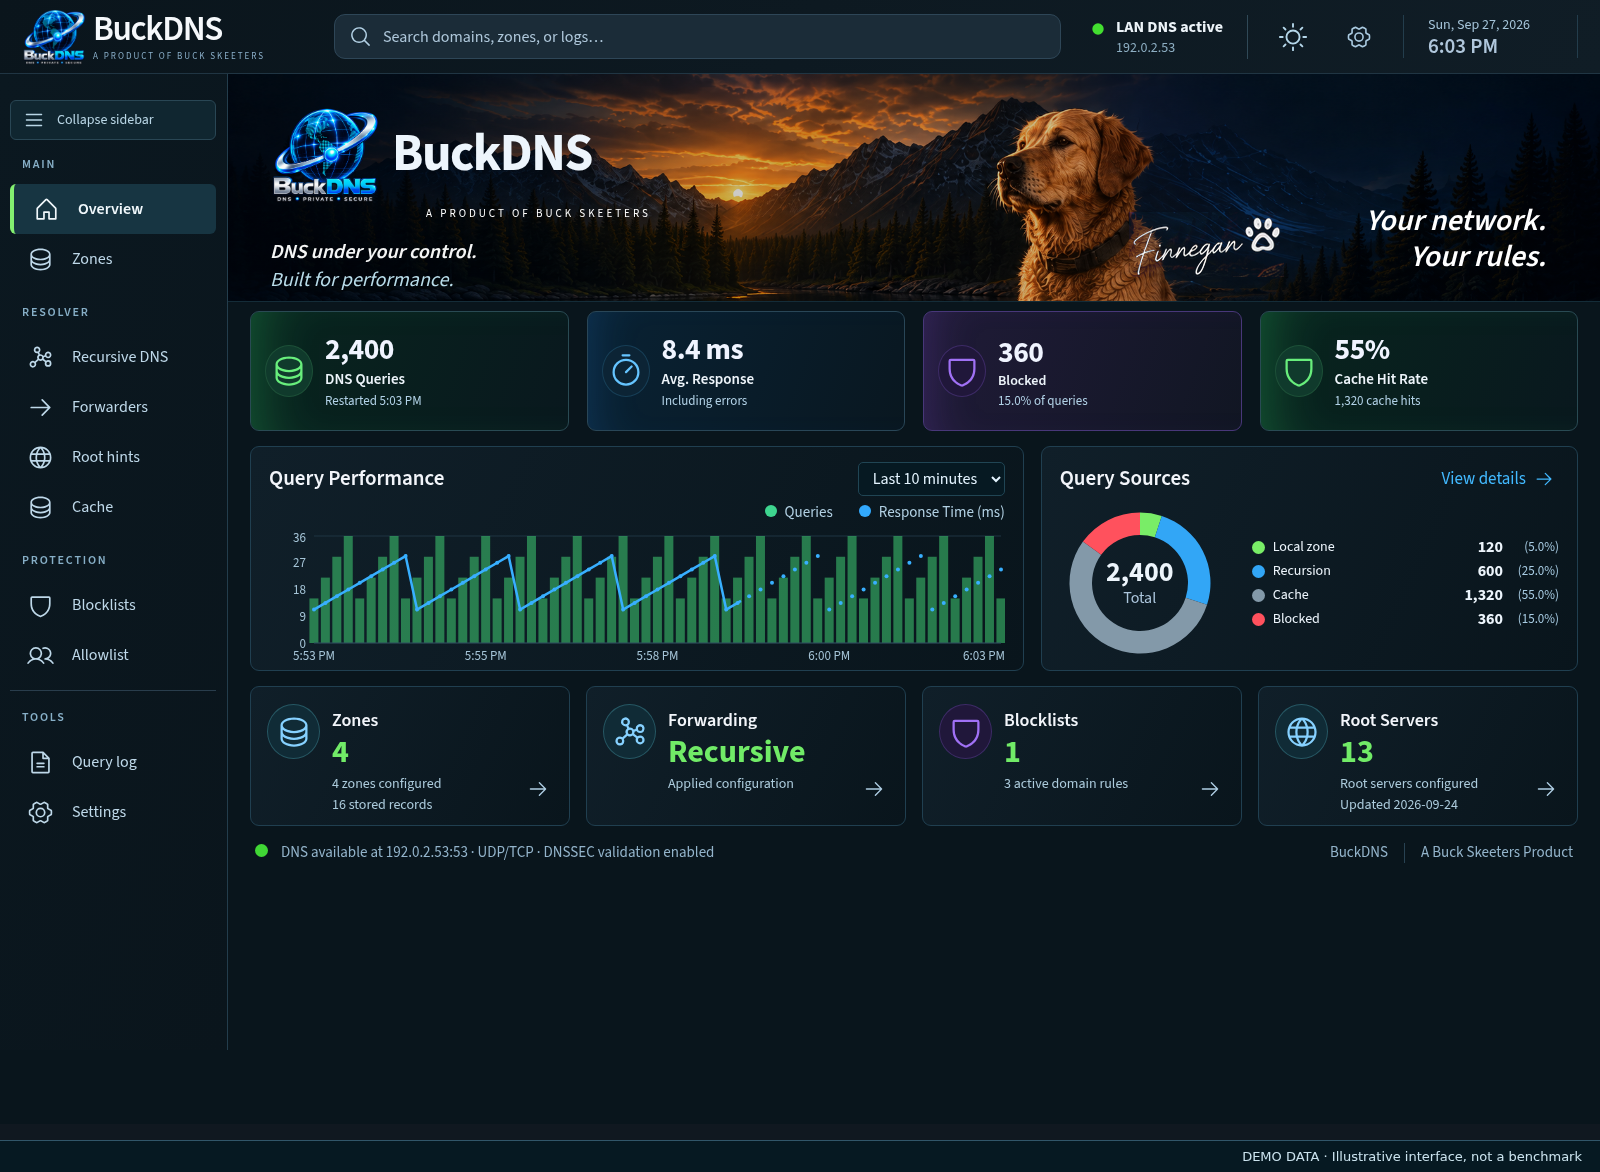
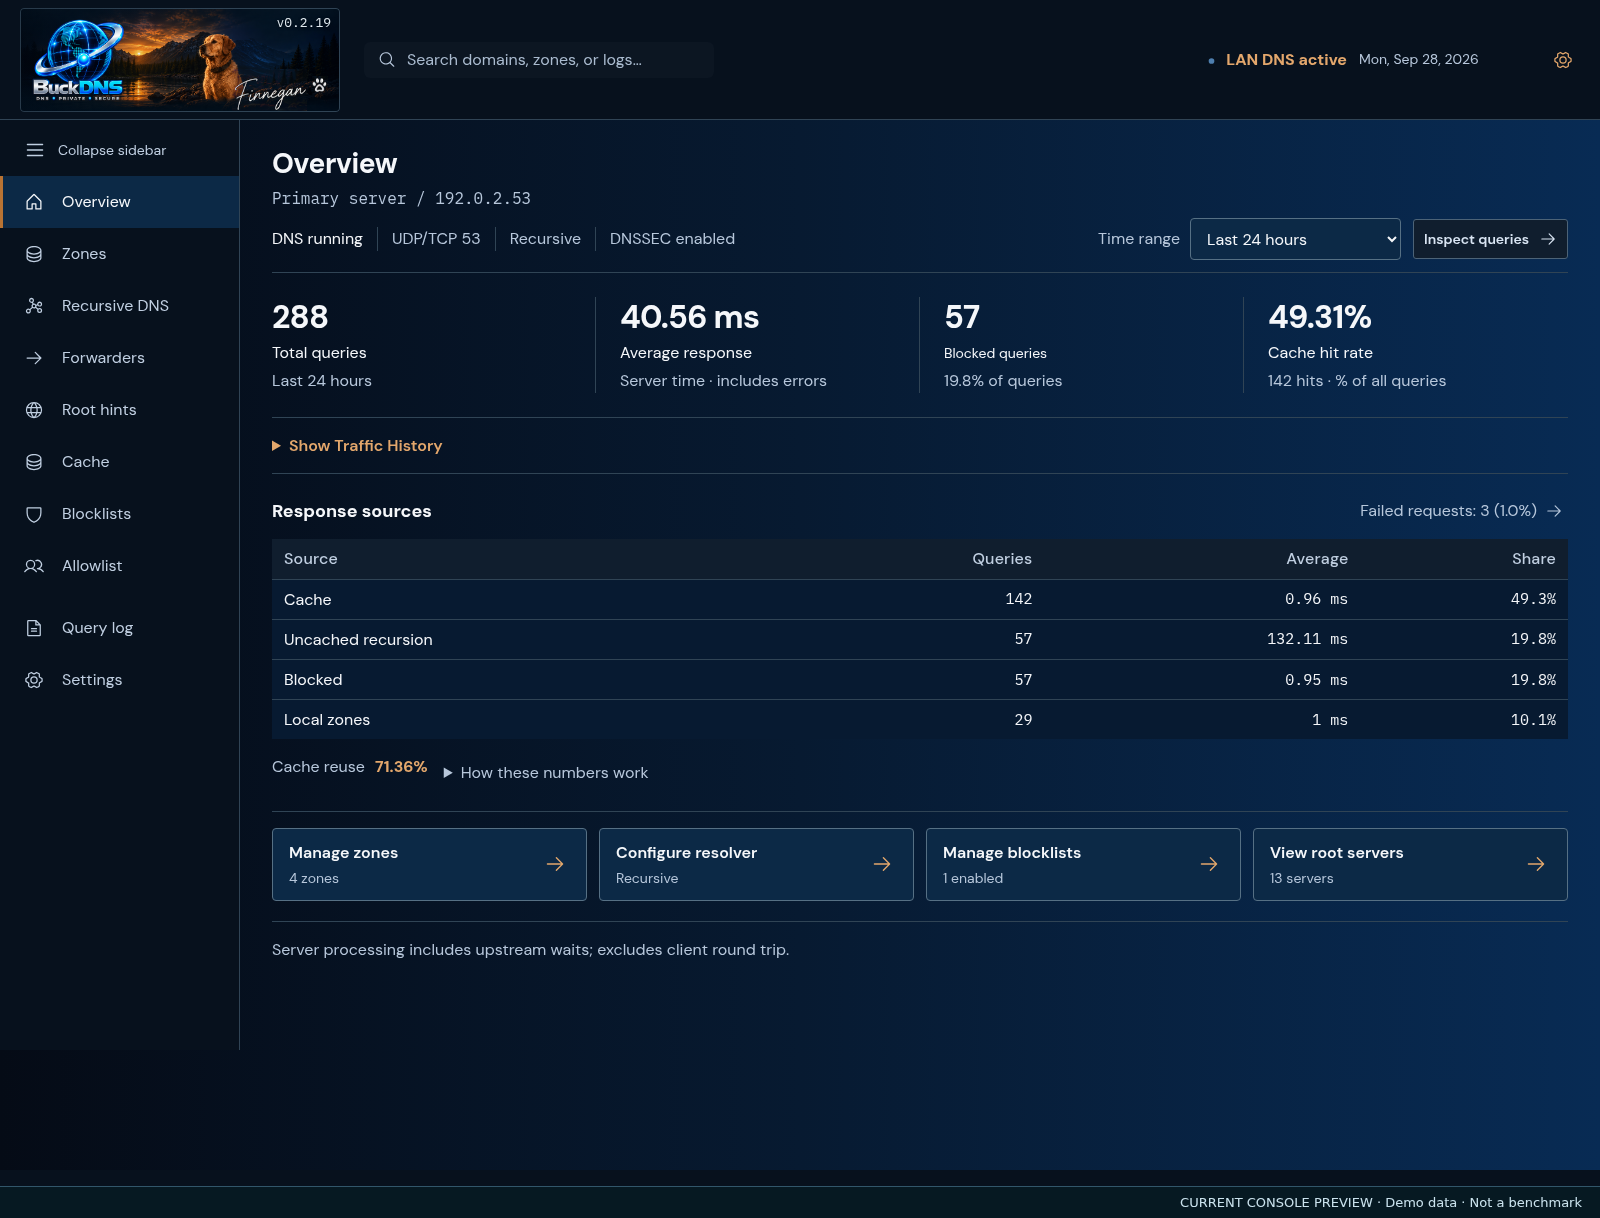
Add files via upload

diff --git a/README.md b/README.md
@@ -22,9 +22,39 @@ A fully recursive DNS server with network-wide ad and tracker blocking, local zo
 
 ## See BuckDNS
 
-![BuckDNS dashboard with illustrative demo data](assets/dashboard.png)
+Screenshots from the [BuckDNS website gallery](https://buckskeeters.com/apps/buckdns/#screenshots), using illustrative demonstration data.
 
-Screenshots contain illustrative demo data, not performance benchmarks. The [website carousel](https://buckskeeters.com/apps/buckdns/#screenshots) previews the latest interface; some screens include changes coming in the next packaged release.
+### Dashboard
+
+![BuckDNS dashboard screen with illustrative demo data](assets/dashboard.png)
+
+### Ad blocking
+
+![BuckDNS ad blocking screen with illustrative demo data](assets/02-ad-blocking.png)
+
+### Cache controls
+
+![BuckDNS cache controls screen with illustrative demo data](assets/03-cache-controls.png)
+
+### Clustering
+
+![BuckDNS clustering screen with illustrative demo data](assets/04-clustering.png)
+
+### Local zones
+
+![BuckDNS local zones screen with illustrative demo data](assets/05-local-zones.png)
+
+### About and support
+
+![BuckDNS about and support screen with illustrative demo data](assets/06-about-and-support.png)
+
+### Allowlist
+
+![Current BuckDNS allowed domains and subscription lists with demo data](assets/07-allowlist.png)
+
+### Settings
+
+![Current BuckDNS organized General settings with demo values](assets/08-settings.png)
 
 ## Install
 
